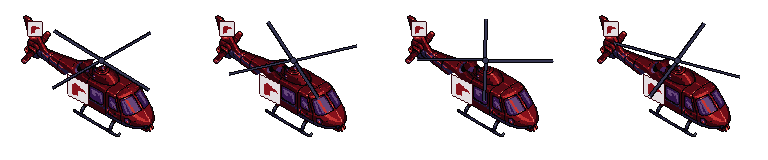
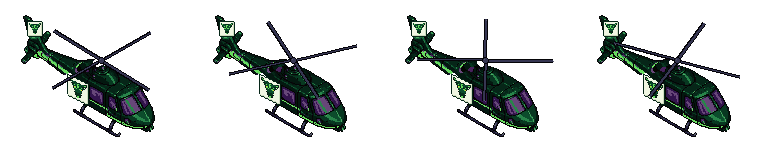
T-305: helicopter sheet rebuilt in Greenbull's colours by script, style loop 8/10, Redgull sheet archived

diff --git a/game/tools/build_helicopter.py b/game/tools/build_helicopter.py
@@ -1,46 +1,59 @@
 #!/usr/bin/env python3
-"""Builds the Redgull helicopter sprite sheet from the approved PixelLab sample (task T-145).
+"""Builds the gift pack helicopter sprite sheet from the approved PixelLab sample.
 
-No PixelLab call: every step is a script on the approved sample
-(art-archive/T-145/helicopter_sample.png). It
+T-145 built it in Redgull's red with the gull; T-305 rebuilds it in Greenbull's colours
+(Visual style, Decisions, "The rebrand", "Greenbull's look"; rule 6). No PixelLab call:
+every step is a script on the approved sample (art-archive/T-145/helicopter_sample.png,
+read only). It
 - mirrors the sample (the sample's nose points down-left; the helicopter flies left to right),
-- recolours the charcoal body to Redgull red (the logo's red, style_rules.REDGULL_RED, at the middle of the ramp),
+- recolours the charcoal body to a dark green ramp led by Greenbull's dark green
+  (style_rules.GREENBULL_DARK_GREEN, at the middle of the ramp), and the sample's thin accent
+  stripes to Greenbull's light green,
 - erases the four static rotor blades and draws them again, turned a step per frame (4 frames),
-- stamps the approved Redgull logo (game/art/logo/) on a pale panel on the fuselage side and the tail fin.
+- stamps Greenbull's approved emblem (game/art/logo/greenbull_emblem_32.png, the bull's head,
+  in its own colours) on a pale panel on the fuselage side and the tail fin.
 
-    python game/tools/build_helicopter.py build   # writes game/art/gift_pack/helicopter_sheet.png and its record
+    python game/tools/build_helicopter.py build          # writes game/art/gift_pack/helicopter_sheet.png and its record
     python game/tools/build_helicopter.py check
+    python game/tools/build_helicopter.py piece <png>    # the style loop's step: the sheet to <png>
+    python game/tools/build_helicopter.py archive        # copies the current sheet to art-archive/T-305/redgull/
+                                                         # (never overwrites)
 """
 from __future__ import annotations
 
 import argparse
 import json
 import math
+import shutil
 import sys
 from pathlib import Path
 
 from PIL import Image, ImageDraw
 
 sys.path.insert(0, str(Path(__file__).resolve().parent))
-from style_rules import REDGULL_RED  # noqa: E402
+import style_rules as rules  # noqa: E402
+from style_rules import GREENBULL_DARK_GREEN, GREENBULL_LIGHT_GREEN  # noqa: E402
 
 ROOT = Path(__file__).resolve().parents[2]
 SAMPLE = ROOT / "art-archive" / "T-145" / "helicopter_sample.png"
-LOGO = ROOT / "game" / "art" / "logo" / "redgull_logo_32.png"
+LOGO = ROOT / "game" / "art" / "logo" / "greenbull_emblem_32.png"
 OUT_DIR = ROOT / "game" / "art" / "gift_pack"
 SHEET = OUT_DIR / "helicopter_sheet.png"
 FRAME_FILES = [OUT_DIR / f"helicopter_{i}.png" for i in range(4)]
 RECORD = OUT_DIR / "helicopter_sheet.json"
+OLD_ARCHIVE = ROOT / "art-archive" / "T-305" / "redgull"
 
 W, H = 192, 160
 FRAMES = 4
-LOGO_RED = REDGULL_RED
-# Red ramp, dark to light, around the logo's red.
-RAMP = [(52, 6, 14), (86, 11, 20), (112, 14, 24), LOGO_RED, (166, 28, 36), (198, 52, 50), (232, 120, 104)]
-PANEL = (226, 220, 224)
-PANEL_SHADE = (176, 168, 178)
+MAX_COLOURS = 30
+BRAND = GREENBULL_DARK_GREEN
+# Dark green ramp, dark to light, around Greenbull's dark green.
+RAMP = [(4, 24, 16), (6, 38, 24), (8, 56, 33), BRAND, (22, 102, 58), (40, 132, 74), (78, 170, 98)]
+PANEL = (240, 246, 226)        # the cream of the gift pack's tag and parachute (T-304)
+PANEL_SHADE = (206, 220, 190)
+PANEL_EDGE = (6, 38, 24)
 OUTLINE = (5, 4, 8)
-STRIPE = (30, 25, 57)
+STRIPE = GREENBULL_LIGHT_GREEN
 BLADE = (54, 54, 82)
 BLADE_LIGHT = (91, 93, 112)
 
@@ -212,18 +225,39 @@ def draw_blades(img: Image.Image, theta: float) -> Image.Image:
     return out
 
 
-def logo_mask(size: int) -> list:
-    """The approved logo (the 64 px file) cut down to size x size, hard pixels (threshold, no blending)."""
-    lg = Image.open(LOGO.parent / "redgull_logo_64.png").convert("RGBA")
-    alpha = lg.split()[3].resize((size, size), Image.BOX)
-    a = alpha.load()
-    return [[a[x, y] >= 128 for x in range(size)] for y in range(size)]
+def emblem_palette() -> list:
+    """The approved emblem's own colours."""
+    lg = Image.open(LOGO).convert("RGBA")
+    return sorted({p[:3] for p in lg.getdata() if p[3] == 255})
+
+
+def emblem(size: int) -> list:
+    """The approved emblem fitted in size x size: rows of colours (None for transparent), every
+    pixel snapped to the emblem's own colours, hard pixels (threshold, no blending)."""
+    lg = Image.open(LOGO).convert("RGBA")
+    lg = lg.crop(lg.getbbox())
+    pal = emblem_palette()
+    w = h = size
+    if lg.width >= lg.height:
+        h = max(1, round(lg.height * size / lg.width))
+    else:
+        w = max(1, round(lg.width * size / lg.height))
+    small = lg.resize((w, h), Image.BOX)
+    sp = small.load()
+    ox, oy = (size - w) // 2, (size - h) // 2
+    rows = [[None] * size for _ in range(size)]
+    for y in range(h):
+        for x in range(w):
+            r, g, b, a = sp[x, y]
+            if a >= 110:
+                rows[oy + y][ox + x] = min(pal, key=lambda c: rules.rgb_distance(c, (r, g, b)))
+    return rows
 
 
 def stamp(img: Image.Image, centre, size: int, shear: float) -> None:
-    """A pale panel with the logo in Redgull red, sheared along the fuselage."""
+    """A pale panel with Greenbull's emblem in its own colours, sheared along the fuselage."""
     px = img.load()
-    m = logo_mask(size)
+    m = emblem(size)
     pad = 2
     n = size + 2 * pad
     for yy in range(n):
@@ -235,28 +269,42 @@ def stamp(img: Image.Image, centre, size: int, shear: float) -> None:
             if corner:
                 continue
             if edge:
-                px[x, y] = (52, 6, 14, 255)
+                px[x, y] = PANEL_EDGE + (255,)
                 continue
             lx, ly = xx - pad, yy - pad
-            inside = 0 <= lx < size and 0 <= ly < size and m[ly][lx]
-            px[x, y] = LOGO_RED + (255,) if inside else PANEL + (255,)
+            c = m[ly][lx] if 0 <= lx < size and 0 <= ly < size else None
+            if c is None:
+                c = PANEL_SHADE if (xx == n - 2 or yy == n - 2) else PANEL
+            px[x, y] = c + (255,)
 
 
 def build_frames(logo_spots) -> list:
     base = recolour(base_body())
+    clear_reds(base)
     for centre, size, shear in logo_spots:
         stamp(base, centre, size, shear)
     frames = [draw_blades(base, i * (math.pi / 2) / FRAMES) for i in range(FRAMES)]
-    return merge_colours(frames, 30)
+    return merge_colours(frames, MAX_COLOURS)
+
+
+def clear_reds(img: Image.Image) -> None:
+    """Any pixel the Redgull red check flags (a red left in the sample) takes the ramp's colour of the same lightness."""
+    px = img.load()
+    for y in range(H):
+        for x in range(W):
+            p = px[x, y]
+            if p[3] == 255 and rules.is_redgull_red(p[:3]):
+                px[x, y] = min(RAMP, key=lambda c: abs(lum(c) - lum(p))) + (255,)
 
 
 def merge_colours(frames, limit: int):
-    """Merge the least used colours into their nearest neighbour until the sheet has `limit` colours (the logo red stays)."""
+    """Merge the least used colours into their nearest neighbour until the sheet has `limit` colours
+    (Greenbull's dark green, the panel, the outline and the emblem's own colours stay)."""
     from collections import Counter
     count = Counter()
     for f in frames:
         count.update(p[:3] for p in f.getdata() if p[3] == 255)
-    protected = {LOGO_RED, PANEL, OUTLINE}
+    protected = {BRAND, PANEL, OUTLINE, STRIPE} | set(emblem_palette())
     while len(count) > limit:
         c = min((k for k in count if k not in protected), key=lambda k: count[k])
         near = min((k for k in count if k != c), key=lambda k: sum((a - b) ** 2 for a, b in zip(k, c)))
@@ -291,23 +339,44 @@ def frame_report(img: Image.Image) -> dict:
     }
 
 
-def build() -> dict:
+def red_pixels(img: Image.Image) -> list:
+    return sorted({p[:3] for p in img.getdata() if p[3] and rules.is_redgull_red(p[:3])})
+
+
+def archive() -> list:
+    """Copies the current game sheet and its record to art-archive/T-305/redgull/, never overwriting."""
+    OLD_ARCHIVE.mkdir(parents=True, exist_ok=True)
+    done = []
+    for src in (SHEET, RECORD):
+        dst = OLD_ARCHIVE / src.name
+        if src.exists() and not dst.exists():
+            shutil.copy2(src, dst)
+            done.append(dst)
+    return done
+
+
+def build(out: Path = SHEET, record: bool = True) -> dict:
     frames = build_frames(LOGO_SPOTS)
-    OUT_DIR.mkdir(parents=True, exist_ok=True)
+    out.parent.mkdir(parents=True, exist_ok=True)
     sheet = sheet_of(frames)
-    sheet.save(SHEET)
+    sheet.save(out)
     report = {
-        "task": "T-145",
+        "task": "T-305 (rebuilt in Greenbull's colours; first built by T-145 in Redgull's)",
         "generator": "game/tools/build_helicopter.py build (free, no PixelLab call)",
         "source": "art-archive/T-145/helicopter_sample.png (the board-approved sample, 2026-10-16)",
+        "colours": "dark green ramp led by Greenbull's dark green RGB 12, 76, 44; light green stripes; "
+                   "Greenbull's emblem (game/art/logo/greenbull_emblem_32.png) in its own colours on cream panels",
         "frames": FRAMES,
         "frame_size": [W, H],
         "sheet": "helicopter_sheet.png: 4 frames side by side, the rotor turned a quarter of a blade gap per frame",
         "faces": "right (down-right in the isometric view), the way it flies",
         "logo_spots": [{"centre": list(c), "size": n, "shear": sh} for c, n, sh in LOGO_SPOTS],
         "frame_checks": [frame_report(f) for f in frames],
+        "sheet_colours": len({p[:3] for p in sheet.getdata() if p[3] == 255}),
+        "redgull_red_pixels": len(red_pixels(sheet)),
     }
-    RECORD.write_text(json.dumps(report, indent=2) + chr(10))
+    if record:
+        RECORD.write_text(json.dumps(report, indent=2) + chr(10))
     return report
 
 
@@ -316,19 +385,34 @@ def check() -> int:
     ok = sheet.size == (W * FRAMES, H)
     for i in range(FRAMES):
         r = frame_report(sheet.crop((i * W, 0, (i + 1) * W, H)))
-        good = r["transparent_corners"] and r["semi_transparent_pixels"] == 0 and r["colours"] <= 30
+        good = r["transparent_corners"] and r["semi_transparent_pixels"] == 0 and r["colours"] <= MAX_COLOURS
         print(("PASS " if good else "FAIL "), i, r)
         ok = ok and good
+    n = len({p[:3] for p in sheet.getdata() if p[3] == 255})
+    reds = red_pixels(sheet)
+    print(f"sheet: {sheet.size}, {n} colours, Redgull red pixels: {len(reds)}")
+    ok = ok and n <= MAX_COLOURS and not reds
     return 0 if ok else 1
 
 
 def main() -> int:
     ap = argparse.ArgumentParser()
-    ap.add_argument("command", choices=["build", "check"])
+    ap.add_argument("command", choices=["build", "check", "piece", "archive"])
+    ap.add_argument("out", nargs="?")
     a = ap.parse_args()
     if a.command == "build":
         r = build()
         print(json.dumps(r["frame_checks"]))
+        return check()
+    if a.command == "piece":
+        if not a.out:
+            ap.error("piece needs the output PNG path")
+        build(Path(a.out), record=False)
+        print(f"wrote {a.out}")
+        return 0
+    if a.command == "archive":
+        for p in archive():
+            print(f"archived {p}")
         return 0
     return check()
 

diff --git a/game/tools/test_build_helicopter.py b/game/tools/test_build_helicopter.py
@@ -1,5 +1,6 @@
-"""Tests for build_helicopter.py (task T-145). Run with the Python tool tests."""
+"""Tests for build_helicopter.py (tasks T-145, T-305). Run with the Python tool tests."""
 import sys
+import tempfile
 import unittest
 from pathlib import Path
 
@@ -7,33 +8,84 @@ from PIL import Image
 
 sys.path.insert(0, str(Path(__file__).resolve().parent))
 import build_helicopter as b  # noqa: E402
+import style_rules as rules  # noqa: E402
+
+
+def frames_of(sheet):
+    return [sheet.crop((i * b.W, 0, (i + 1) * b.W, b.H)) for i in range(b.FRAMES)]
 
 
 class HelicopterSheetTest(unittest.TestCase):
-    def setUp(self):
-        self.sheet = Image.open(b.SHEET).convert("RGBA")
+    @classmethod
+    def setUpClass(cls):
+        cls.sheet = Image.open(b.SHEET).convert("RGBA")
+        cls.built = b.build_frames(b.LOGO_SPOTS)
 
-    def test_sheet_has_four_frames(self):
+    def test_sheet_keeps_four_frames_of_192_by_160(self):
+        # gift_helicopter.tscn slices the sheet into 4 frames of 192 x 160
+        self.assertEqual((b.W, b.H, b.FRAMES), (192, 160, 4))
         self.assertEqual(self.sheet.size, (b.W * 4, b.H))
 
     def test_each_frame_follows_the_sprite_rules(self):
-        for i in range(4):
-            r = b.frame_report(self.sheet.crop((i * b.W, 0, (i + 1) * b.W, b.H)))
+        for f in frames_of(self.sheet):
+            r = b.frame_report(f)
             self.assertTrue(r["transparent_corners"])
             self.assertEqual(r["semi_transparent_pixels"], 0)
             self.assertLessEqual(r["colours"], 30)
 
-    def test_frames_differ_only_by_the_rotor_and_the_logo_red_is_there(self):
-        f = [list(self.sheet.crop((i * b.W, 0, (i + 1) * b.W, b.H)).getdata()) for i in range(4)]
-        self.assertNotEqual(f[0], f[1])
-        self.assertIn(b.LOGO_RED, {p[:3] for p in f[0] if p[3]})
+    def test_whole_sheet_has_at_most_30_colours(self):
+        self.assertLessEqual(len({p[:3] for p in self.sheet.getdata() if p[3] == 255}), 30)
 
-    def test_build_is_deterministic(self):
-        a = [list(x.getdata()) for x in b.build_frames(b.LOGO_SPOTS)]
+    def test_no_redgull_red_pixel(self):
+        self.assertEqual(b.red_pixels(self.sheet), [])
+
+    def test_greenbull_dark_green_leads_and_light_green_is_there(self):
+        cols = [p[:3] for p in self.sheet.getdata() if p[3] == 255]
+        self.assertIn(rules.GREENBULL_DARK_GREEN, cols)
+        self.assertIn(rules.GREENBULL_LIGHT_GREEN, cols)
+        greens = sum(1 for c in cols if c[1] > c[0] and c[1] > c[2])
+        reds = sum(1 for c in cols if c[0] > c[1] + 20 and c[0] > c[2])
+        self.assertGreater(greens, len(cols) // 3)
+        self.assertGreater(greens, 10 * max(1, reds))
+
+    def test_emblem_is_stamped_in_its_own_colours_and_the_gull_is_gone(self):
+        cols = {p[:3] for p in self.sheet.getdata() if p[3] == 255}
+        pal = set(b.emblem_palette())
+        self.assertGreaterEqual(len(pal & cols), 3)
+        self.assertIn(b.PANEL, cols)
+        self.assertNotIn(rules.REDGULL_RED, cols)
+        self.assertIn("greenbull_emblem", b.LOGO.name)
+
+    def test_emblem_fits_its_spot(self):
+        rows = b.emblem(18)
+        self.assertEqual((len(rows), len(rows[0])), (18, 18))
+        self.assertTrue(any(c is not None for r in rows for c in r))
+        self.assertTrue(all(c in set(b.emblem_palette()) for r in rows for c in r if c is not None))
+
+    def test_frames_differ_by_the_rotor(self):
+        f = [list(x.getdata()) for x in frames_of(self.sheet)]
+        self.assertNotEqual(f[0], f[1])
+
+    def test_build_is_deterministic_and_matches_the_committed_sheet(self):
+        a = [list(x.getdata()) for x in self.built]
         c = [list(x.getdata()) for x in b.build_frames(b.LOGO_SPOTS)]
         self.assertEqual(a, c)
-        committed = [list(self.sheet.crop((i * b.W, 0, (i + 1) * b.W, b.H)).getdata()) for i in range(4)]
+        committed = [list(x.getdata()) for x in frames_of(self.sheet)]
         self.assertEqual(a, committed)
+
+    def test_piece_writes_the_same_sheet_without_touching_the_record(self):
+        before = b.RECORD.read_text()
+        with tempfile.TemporaryDirectory() as d:
+            out = Path(d) / "piece.png"
+            b.build(out, record=False)
+            self.assertEqual(list(Image.open(out).convert("RGBA").getdata()), list(self.sheet.getdata()))
+        self.assertEqual(b.RECORD.read_text(), before)
+
+    def test_old_redgull_sheet_is_archived(self):
+        old = b.OLD_ARCHIVE / "helicopter_sheet.png"
+        self.assertTrue(old.exists())
+        with Image.open(old) as im:
+            self.assertEqual(im.size, self.sheet.size)
 
 
 if __name__ == "__main__":

diff --git a/tasks/T-305-art-the-gift-pack-helicopter-sheet.md b/tasks/T-305-art-the-gift-pack-helicopter-sheet.md
@@ -56,7 +56,18 @@ Goal runner (G-006): started, in C:\solid-carbide-worktrees\T-305.
 
 ## Style review
 
-Only for art and text tasks: one entry per round of the style loop (`tasks/README.md`, "The style loop"), written by the loop's tool.
+Run by `tools/style_loop/run.py` on 2026-10-27: art, brief `art-archive/T-305/briefs/helicopter_sheet.md`. Generator: asset-generation (one session, resumed for each refine); evaluator: style-evaluator. Kept at 8/10 or more, at most 3 refines.
+
+### Round 1
+
+- Version 1: `art-archive/T-305/style-loop/v1.png`
+- Script checks: 6 of 6 pass
+- Score: 8/10
+- Reason: The sheet passes the script checks (768x160, 30 colours, no semi-transparent pixels, rule 6 allowed for the helicopter). Looking at the image: it is a 3/4 isometric view with the nose down-right, and it reads as a dark green helicopter with light green trim and a night, retro feel. The emblem sits on cream panels on the fuselage side and the tail fin, with no gull and no red. The shading is detailed and the outline is dark. There are two small flaws. Rule 2: the rotor blades are thin, flat, near-black purple lines with no highlight pixels or shading, so they look weaker than the body and break the "outline broken by lighter highlight pixels" look. Fix by giving the blades a dark green or light-edged highlight pixel run, or a slightly thicker 2 px blade. Rules 4 and 6: the cockpit and cabin glass is saturated purple, which is not part of Greenbull's palette or the night glass look. Consider recolouring it to a dark blue-grey or teal with a pale highlight so it doesn't read as an alien (rule 8) colour. Neither flaw is severe.
+- Rules broken: 2, 4
+- Refused: {"tool_input": {"command": "mkdir -p art-archive/T-305/style-loop && python game/tools/build_helicopter.py piece art-archive/T-305/style-loop/v1.png && python -c \"\nfrom PIL import Image\nim=Image.open('art-archive/T-305/style-loop/v1.png'); print(im.mode, im.size)\npx=im.getdata(); cols=set(p for p in px if p[3]); print('colours',len(cols)); print('alphas',sorted(set(p[3] for p in px)))\nprint('reds',[c for c in cols if c[0]>150 and c[1]<90 and c[2]<90])\nbig=im.resize((im.width*3,im.height*3),Image.NEAREST); bg=Image.new('RGBA',big.size,(20,20,30,255)); bg.alpha_composite(big); bg.save('art-archive/T-305/style-loop/v1_preview_dark.png')\n\"", "description": "Build version 1 and check palette, alpha, size"}, "tool_name": "Bash", "tool_use_id": "toolu_01JNGM5xMwWnyP32zNZA53Ba"}; {"tool_input": {"command": "python -m pytest -q game/tools/test_build_helicopter.py 2>&1 | tail -5", "description": "Run the helicopter script's tests"}, "tool_name": "Bash", "tool_use_id": "toolu_016wJzNrQTkCAA7YTQxjtCLf"}
+
+**Kept:** version 1, score 8/10 (`art-archive/T-305/style-loop/v1.png`, copied to `game/art/gift_pack/helicopter_sheet.png`): it reached 8 or more.
 
 ## Result notes
 

diff --git a/art-archive/T-305/briefs/helicopter_sheet.md b/art-archive/T-305/briefs/helicopter_sheet.md
@@ -1,0 +1,7 @@
+Piece: game/art/gift_pack/helicopter_sheet.png (768 x 160: 4 frames of 192 x 160 side by side, the rotor turned a step per frame), the helicopter that flies in and drops each Greenbull gift pack (T-144). One of Greenbull's own things (Visual style, Decisions, "Greenbull's look": the helicopter that drops each gift pack; rule 6).
+
+How to make it (free script, no PixelLab: task T-305 says build_helicopter.py first; a recolour and restamp does it):
+  python game/tools/build_helicopter.py piece <the version's PNG path>
+The script takes T-145's board-approved PixelLab helicopter (art-archive/T-145/helicopter_sample.png, read only, never changed), mirrors it so it faces the way it flies, recolours the charcoal body to a dark green ramp led by Greenbull's dark green RGB 12, 76, 44 and the thin accent stripes to Greenbull's light green RGB 104, 220, 96, redraws the rotor blades turned a step per frame, and stamps Greenbull's approved emblem (game/art/logo/greenbull_emblem_32.png, the bull's head, snapped to the emblem's own colours) on cream panels on the fuselage side (18 px) and the tail fin (12 px), where the Redgull gull was. To refine, edit `RAMP`, `STRIPE`, `PANEL*`, `recolour()`, `emblem()`, `stamp()` or `LOGO_SPOTS` in game/tools/build_helicopter.py, keeping 4 frames of 192 x 160, at most 30 colours on the whole sheet and no red. Never call PixelLab for this piece. Do not run `build` (it writes the game file); use `piece`.
+
+What it must be: a helicopter in Greenbull's colours, mostly dark green with light green trim, Greenbull's bull emblem on its logo spots, no gull, no Redgull red; yellow only as a small accent (the emblem's own). Hard pixel edges, dark selective outline, detailed shading (from the PixelLab sample), at most 30 colours on the whole sheet, alpha 0 or 255 only, transparent background. 3/4 isometric view from above, nose down-right. In-world scale: drawn at 0.5 in the game, a bit bigger than the car, flying above the street at night.
